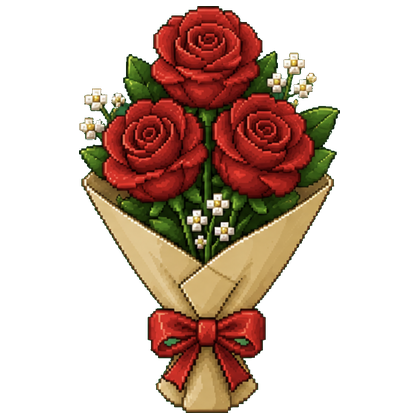
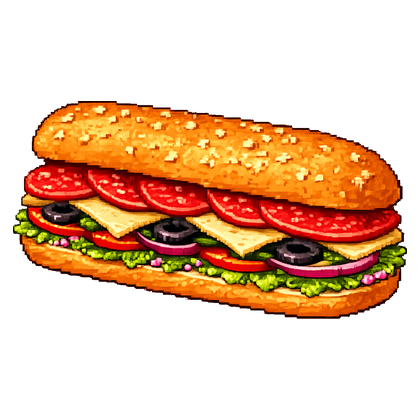
Swap level-1 tile flowers -> sub sandwich (samwich.png)
Client-supplied art alpha-thresholded off its pink gradient backdrop,
cropped and centered on the standard 420px transparent square. Item
renamed Flowers -> Sandwich; tile cache buster to v=4.

diff --git a/10ten.html b/10ten.html
@@ -474,7 +474,7 @@ const CONFIG = {
   boardSize: 4,           // grid is N x N
   target: 6,              // level that wins (Uber Delivery Box)
   startTiles: 2,
-  spawn: [ { value: 1, weight: 85 }, { value: 2, weight: 15 } ], // mostly Flowers, sometimes Coffee
+  spawn: [ { value: 1, weight: 85 }, { value: 2, weight: 15 } ], // mostly Sandwich, sometimes Coffee
   maxScore: 150,          // best possible score (also clamps a stored best)
   // efficiency tiers: win within `maxSwipes` -> that score. Fewer swipes = higher. Edit freely.
   scoreTiers: [
@@ -493,11 +493,11 @@ const CONFIG = {
   storageKey: "ubereats.merge.v1",
   tutorialKey: "ubereats.merge.tut",
   // image path per level — drop your renders into assets/uber/<level>.png
-  itemImg: (v) => `assets/uber/${v}.png?v=3`,
+  itemImg: (v) => `assets/uber/${v}.png?v=4`,
   numbersInImage: false,  // images have NO baked numbers — the game draws them (uniform size)
   // name + emoji fallback (shown until the PNG exists)
   items: {
-    1: { name: "Flowers",       emoji: "💐" },
+    1: { name: "Sandwich",      emoji: "🥪" },
     2: { name: "Coffee",        emoji: "☕" },
     3: { name: "Noodles",       emoji: "🍜" },
     4: { name: "Smoothie",      emoji: "🥤" },
